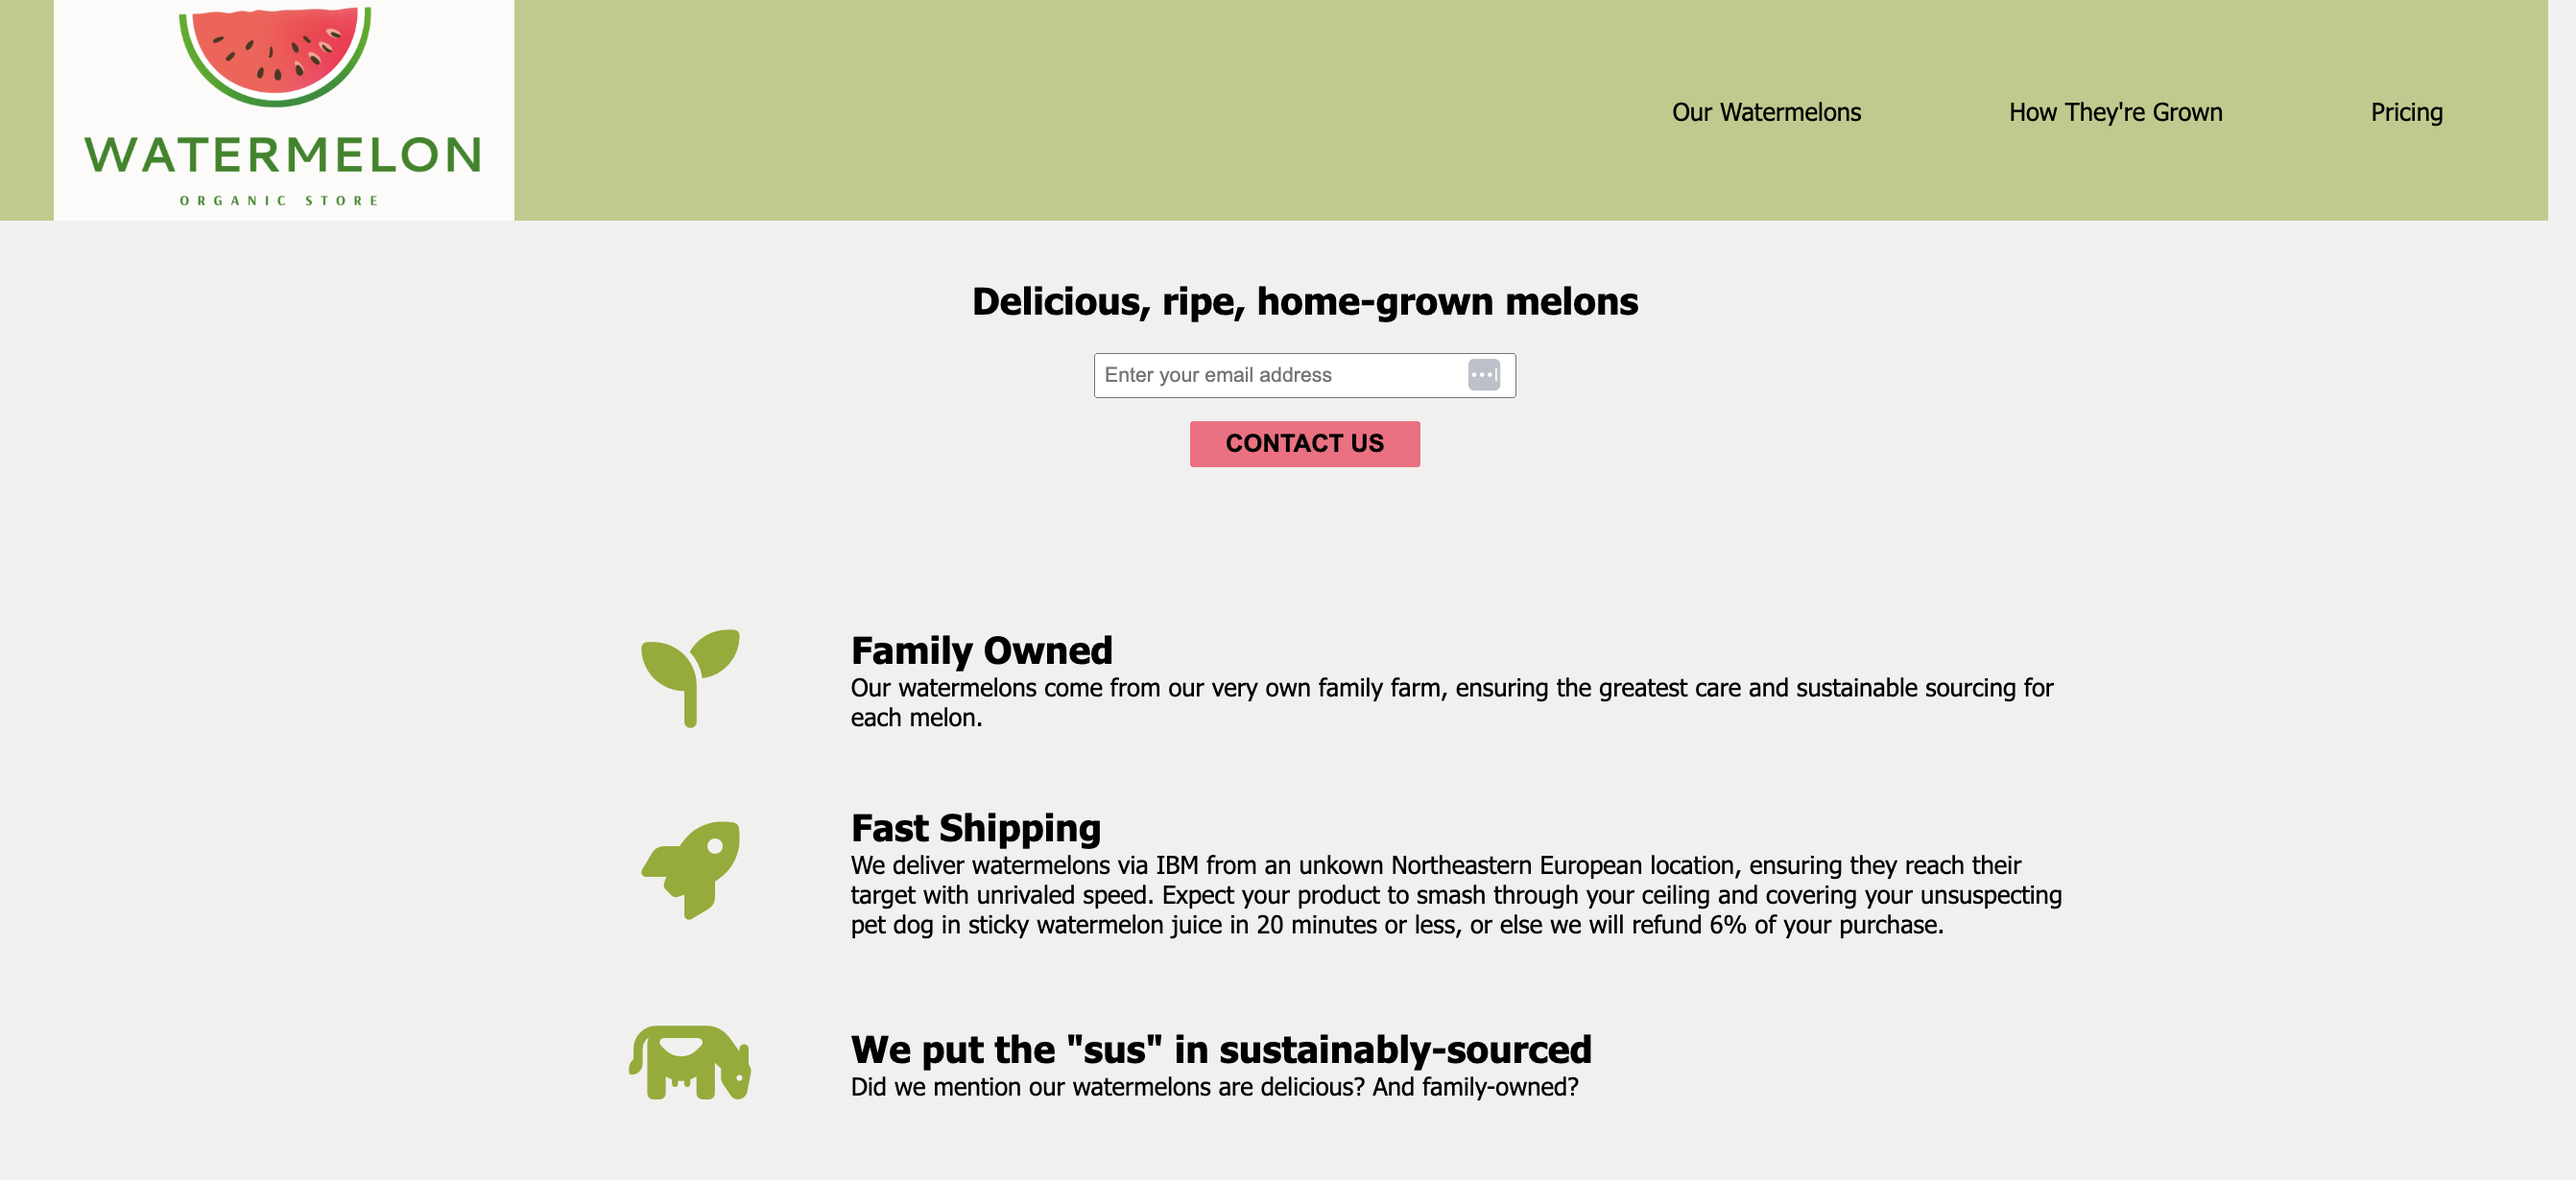
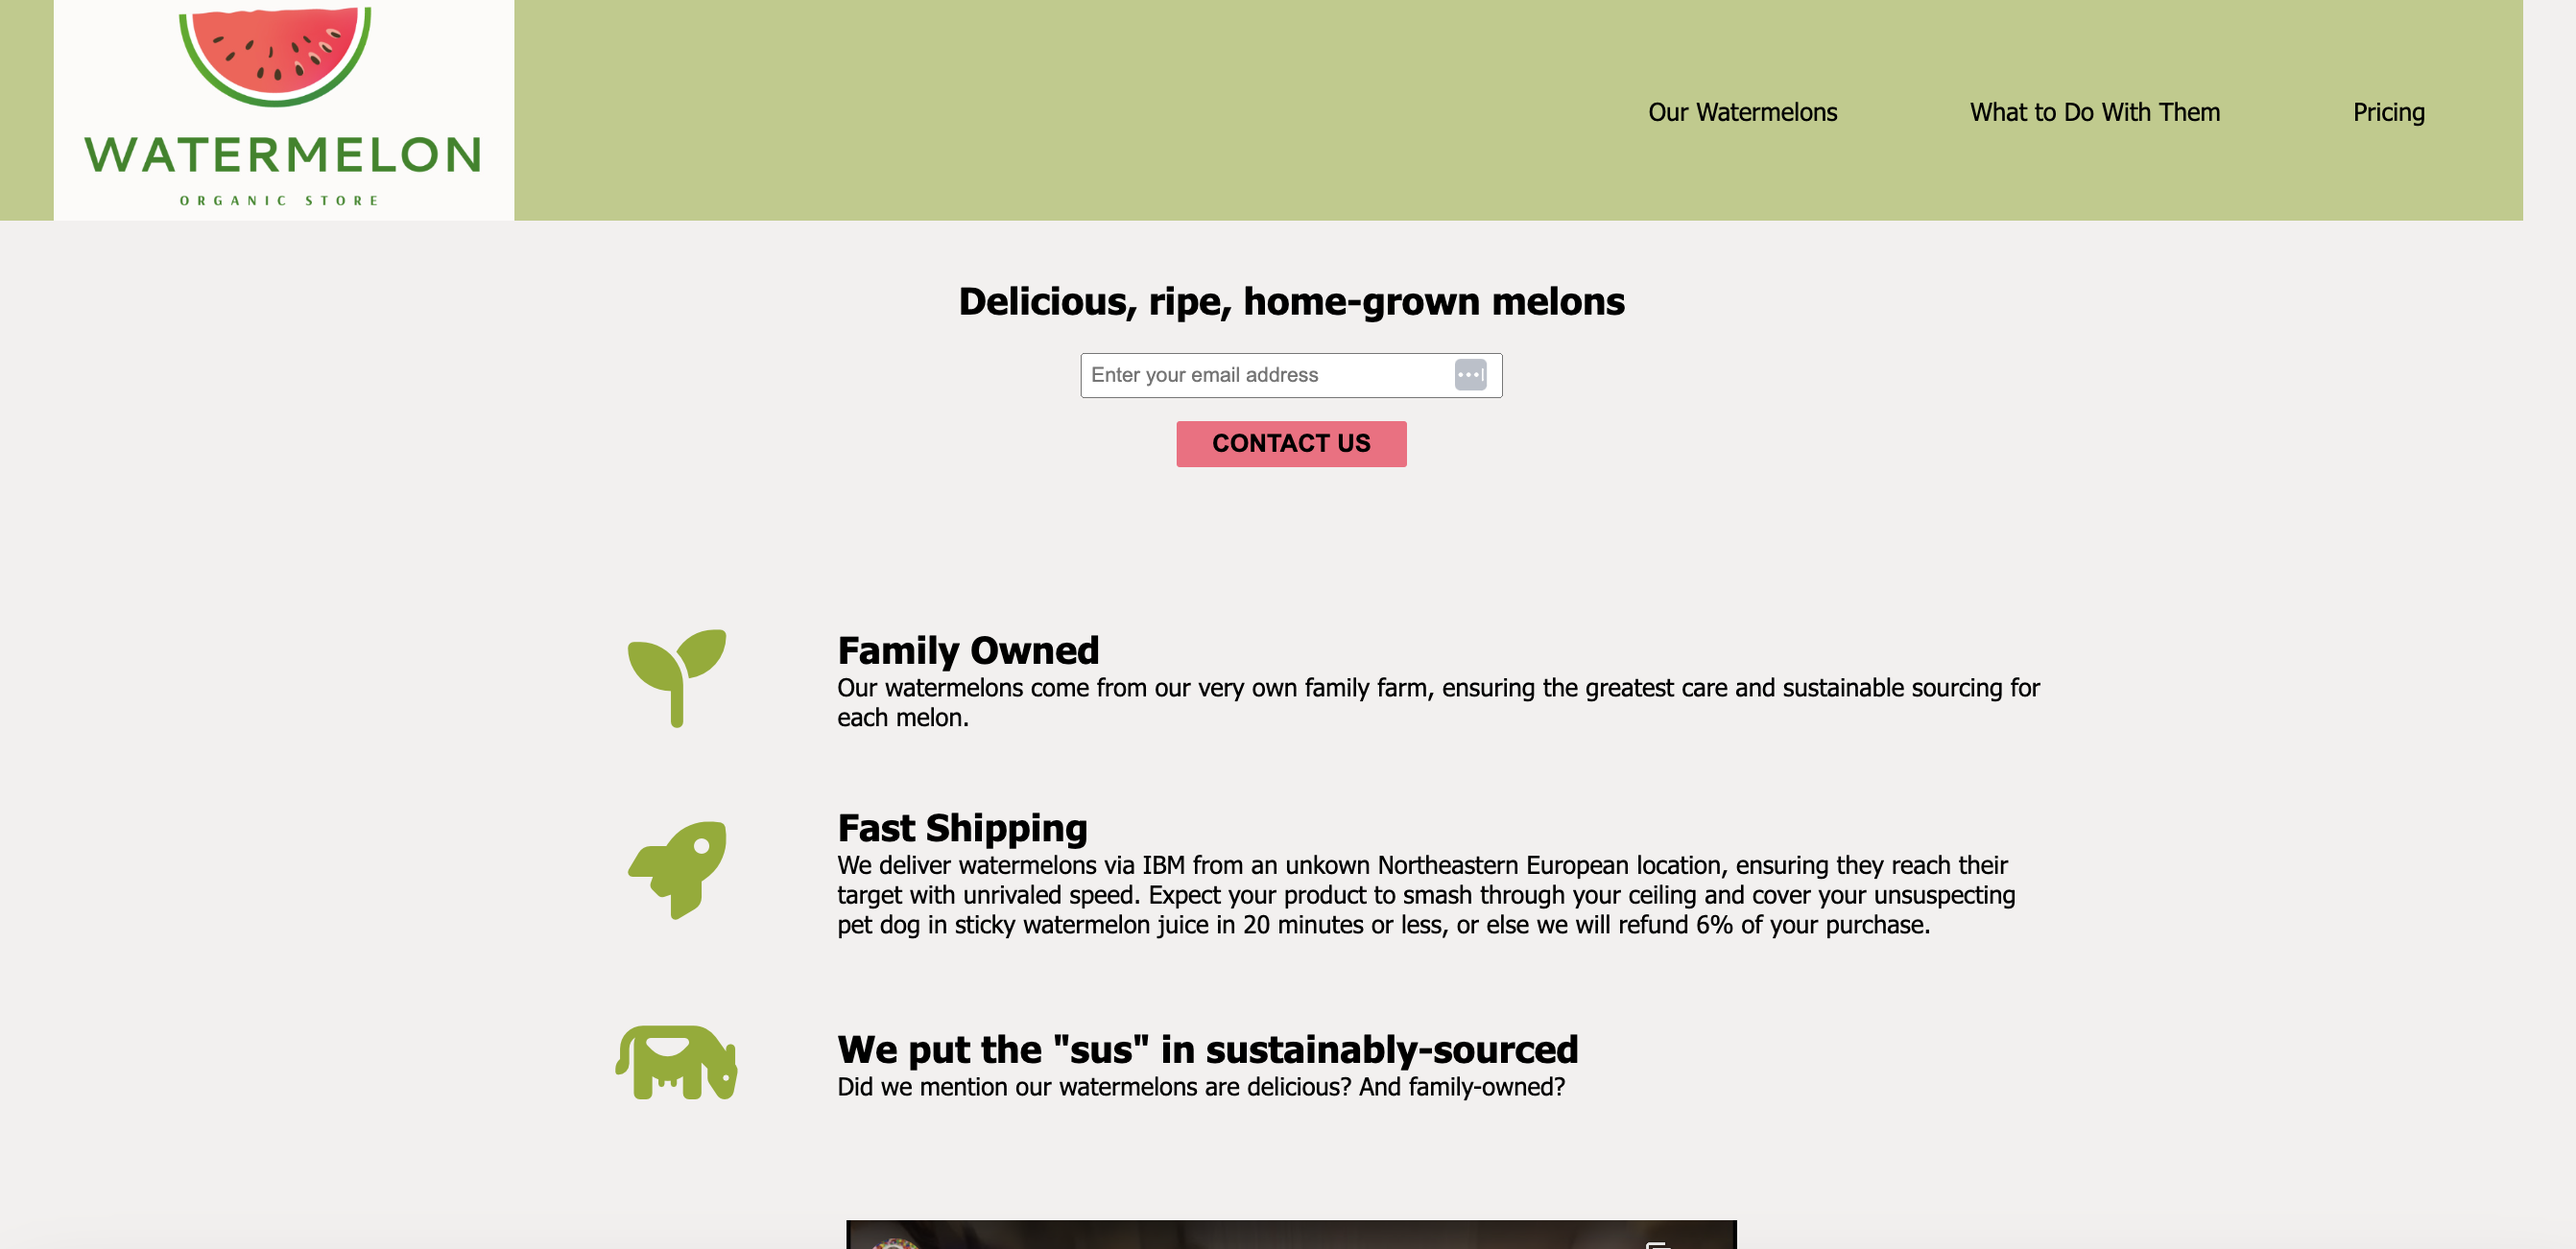
A few tweaks

diff --git a/4_Watermelon_Store_Landing_Page/watermelons.html b/4_Watermelon_Store_Landing_Page/watermelons.html
@@ -18,7 +18,7 @@
         <nav id="nav-bar">
           <ul>
             <li><a class="nav-link" href="#our-watermelons">Our Watermelons</a></li>
-            <li><a class="nav-link" href="#how-theyre-grown">How They're Grown</a></li>
+            <li><a class="nav-link" href="#what-to-do">What to Do With Them</a></li>
             <li><a class="nav-link" href="#pricing">Pricing</a></li>
           </ul>
         </nav>
@@ -41,7 +41,7 @@
       </section>
 
       <div class="container">
-        <section id="features">
+        <section id="our-watermelons">
           <div class="grid">
             <div class="icon"><i class="fa-solid fa-seedling fa-4x"></i></div>
             <div class="desc">
@@ -56,7 +56,7 @@
             <div class="desc">
               <h2>Fast Shipping</h2>
               <p>
-                We deliver watermelons via IBM from an unkown Northeastern European location, ensuring they reach their target with unrivaled speed. Expect your product to smash through your ceiling and covering your unsuspecting pet dog in sticky watermelon juice in 20 minutes or less, or else we will refund 6% of your purchase.
+                We deliver watermelons via IBM from an unkown Northeastern European location, ensuring they reach their target with unrivaled speed. Expect your product to smash through your ceiling and cover your unsuspecting pet dog in sticky watermelon juice in 20 minutes or less, or else we will refund 6% of your purchase.
               </p>
             </div>
           </div>
@@ -72,7 +72,7 @@
             </div>
           </div>
         </section>
-        <section id="how-it-works">
+        <section id="what-to-do">
           <iframe
             id="video"
             height="320"

diff --git a/4_Watermelon_Store_Landing_Page/styles.css b/4_Watermelon_Store_Landing_Page/styles.css
@@ -176,11 +176,11 @@ nav > ul {
   }
 }
 
-#features {
+#our-watermelons {
   margin-top: 30px;
 }
 
-#features .icon {
+#our-watermelons .icon {
   display: flex;
   align-items: center;
   justify-content: center;
@@ -190,12 +190,12 @@ nav > ul {
 }
 
 @media (max-width: 550px) {
-  #features .icon {
+  #our-watermelons .icon {
     display: none;
   }
 }
 
-#features .desc {
+#our-watermelons .desc {
   display: flex;
   flex-direction: column;
   justify-content: center;
@@ -205,7 +205,7 @@ nav > ul {
 }
 
 @media (max-width: 550px) {
-  #features .desc {
+  #our-watermelons .desc {
     width: 100%;
     text-align: center;
     padding: 0;
@@ -214,18 +214,18 @@ nav > ul {
 }
 
 @media (max-width: 650px) {
-  #features {
+  #our-watermelons {
     margin-top: 0;
   }
 }
 
-#how-it-works {
+#what-to-do {
   margin-top: 40px;
   display: flex;
   justify-content: center;
 }
 
-#how-it-works > iframe {
+#what-to-do > iframe {
   max-width: 580px;
   width: 100%;
 }
@@ -278,7 +278,7 @@ nav > ul {
 
 .product > button:hover {
   background-color: var(--color3);
-  transition: background-color 1s;
+  transition: background-color 0.5s;
 }
 
 @media (max-width: 800px) {
